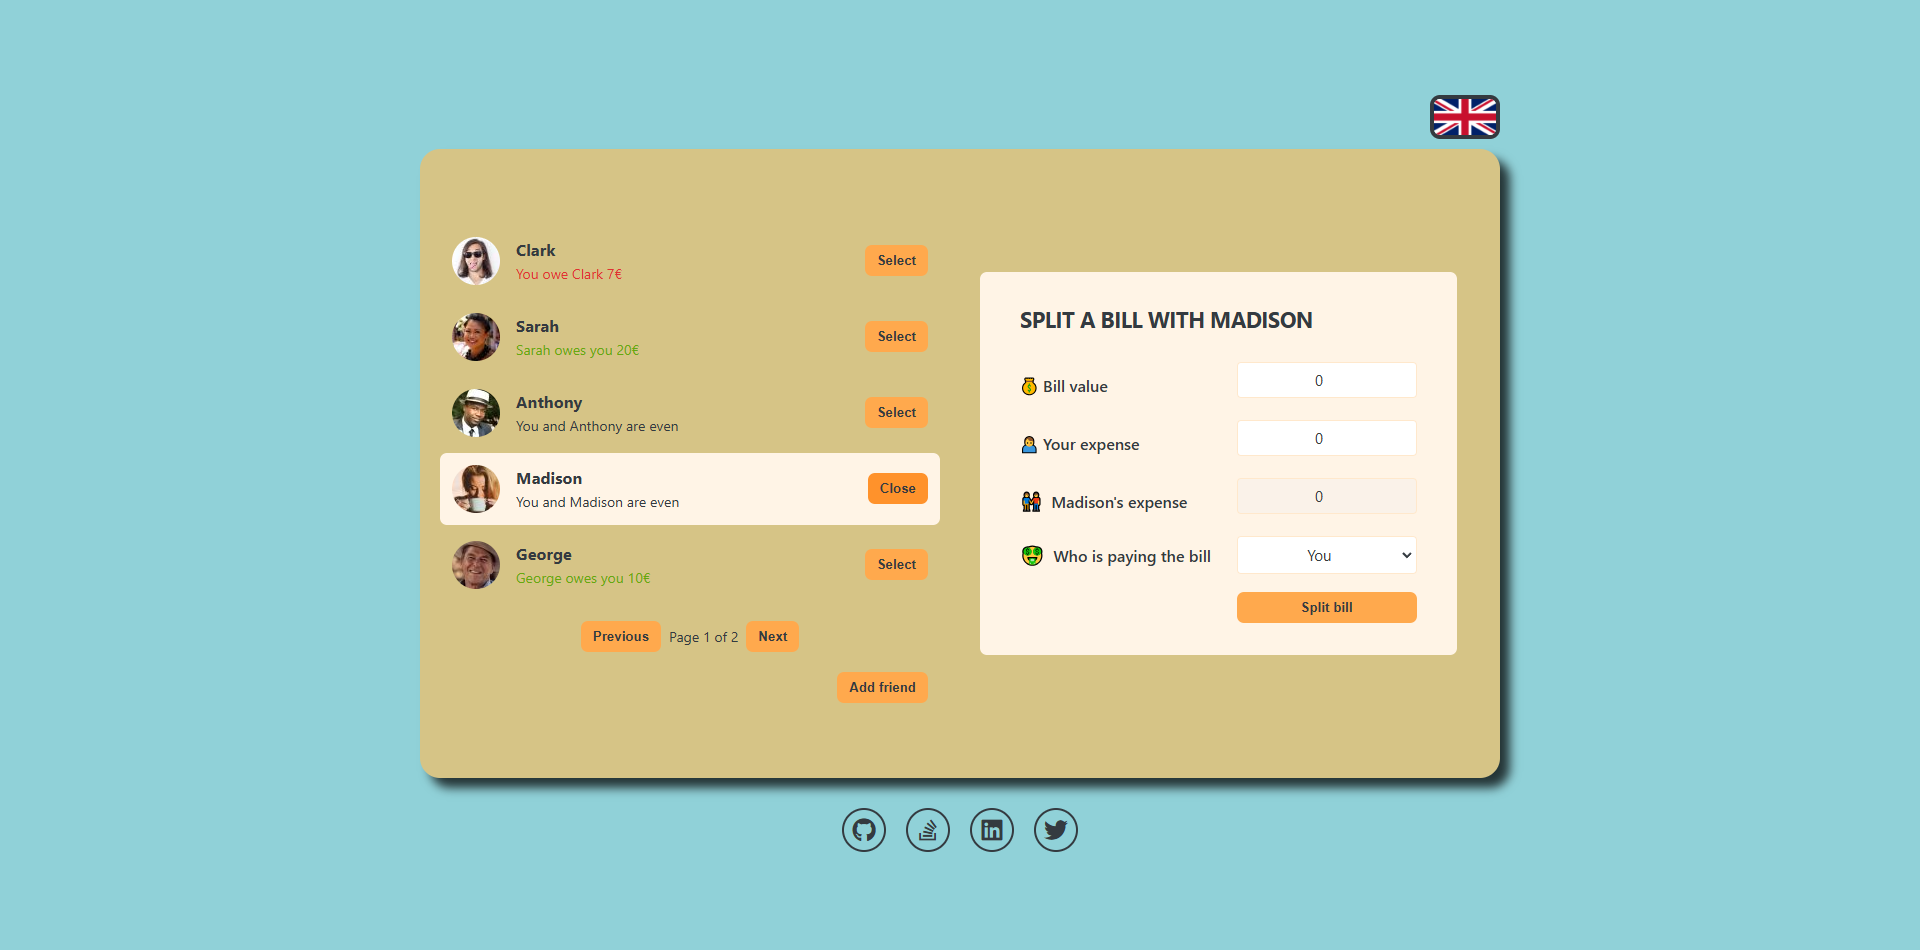
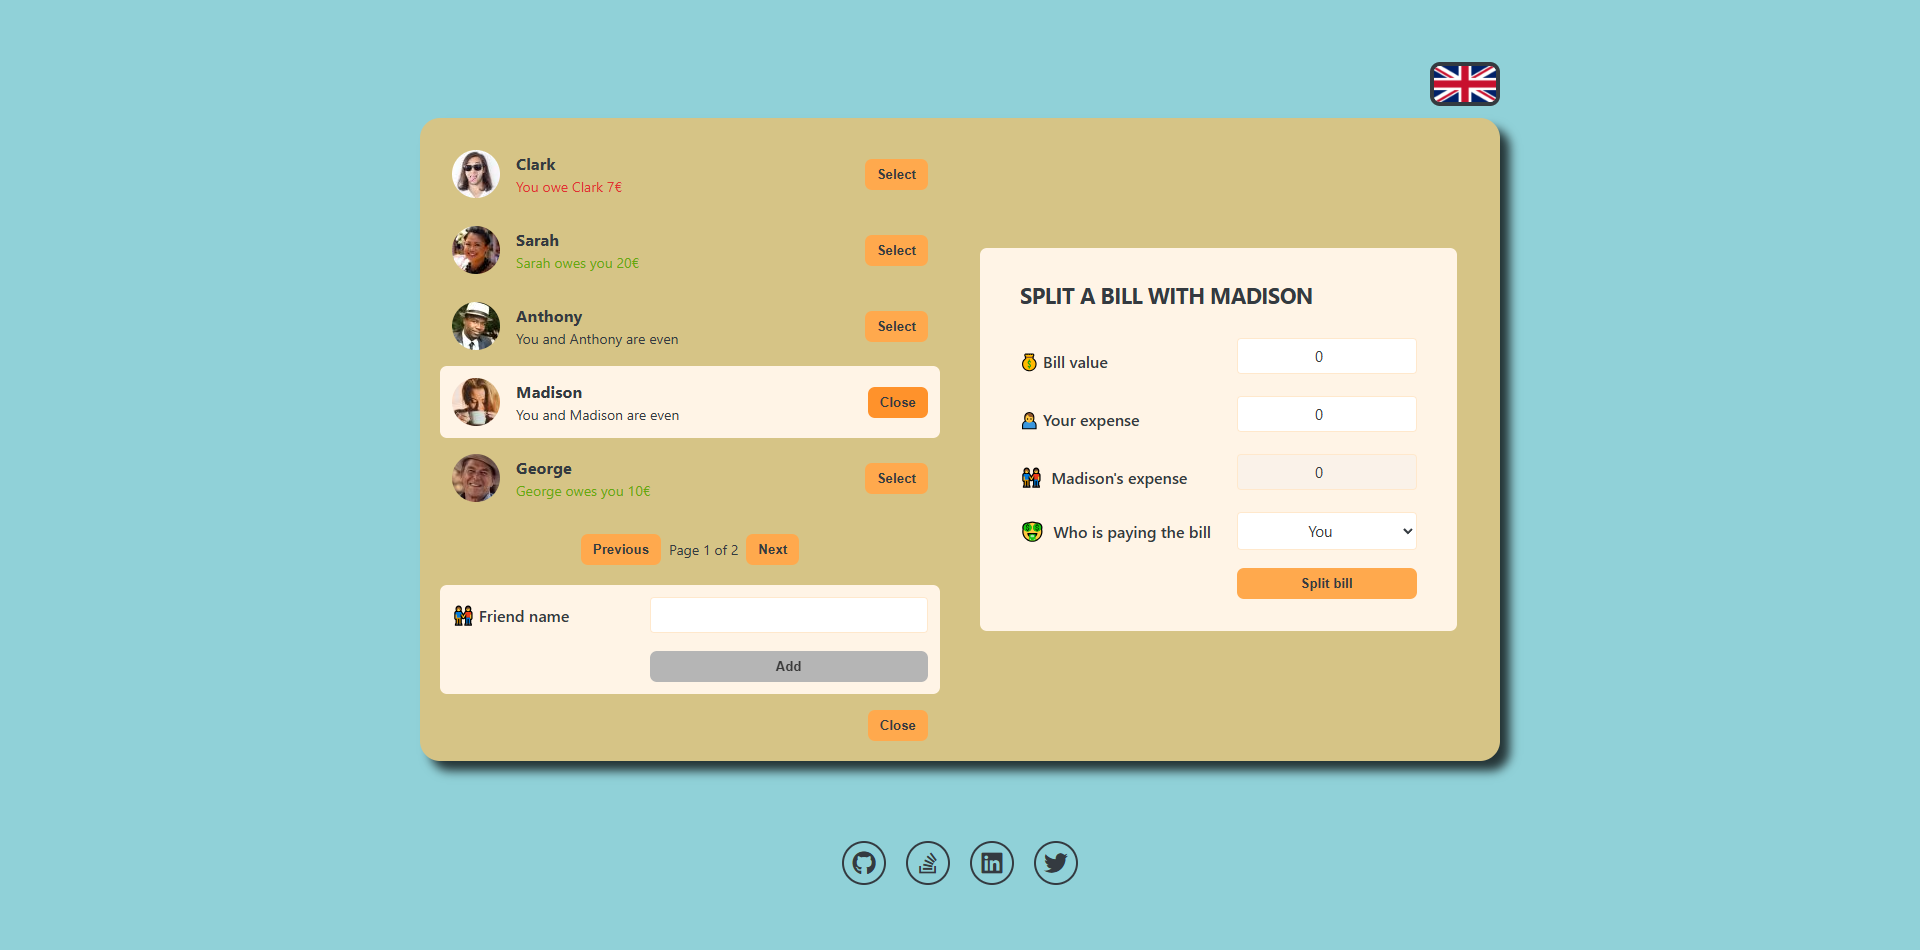
FAIR SHARE 2.2.0
Update User Interface
Update index.css

Changed region(s): [[0.2188, 0.2442, 0.8125, 0.9463], [0.2188, 0.0611, 0.8125, 0.2137]]

diff --git a/src/index.css b/src/index.css
@@ -267,20 +267,12 @@ form h2 {
   transform: scale(1.02);
 }
 
-/* .bottom-section {
-  display: flex;
-  justify-content: center;
-  align-items: center;
-  gap: 4rem;
-  margin-top: 2rem;
-} */
-
 .social-media {
   display: flex;
   justify-content: center;
   align-items: center;
   gap: 2rem;
-  margin-top: 3rem;
+  margin-top: 8rem;
 }
 
 .social-media .icon {
@@ -305,7 +297,7 @@ form h2 {
 }
 
 .language-flag-container {
-  margin-bottom: 1rem;
+  margin-bottom: 1.2rem;
   display: flex;
   justify-content: right;
 }
@@ -331,6 +323,10 @@ form h2 {
     grid-template-columns: 1fr;
     row-gap: 4rem;
   }
+
+  .social-media {
+    margin-top: 3rem;
+  }
 }
 
 @media (max-width: 500px) {
@@ -348,5 +344,9 @@ form h2 {
     grid-template-columns: 12rem 14rem;
     width: auto;
     padding: 2rem;
+  }
+
+  .social-media {
+    margin-top: 1rem;
   }
 }

diff --git a/README.md b/README.md
@@ -10,7 +10,7 @@
 
 - **STACK :**
 
-  - **Fair Share** : `2.1.0`
+  - **Fair Share** : `2.2.0`
   - **React** : `18.3.1`
   - **React Dom** : `18.3.1`
 
